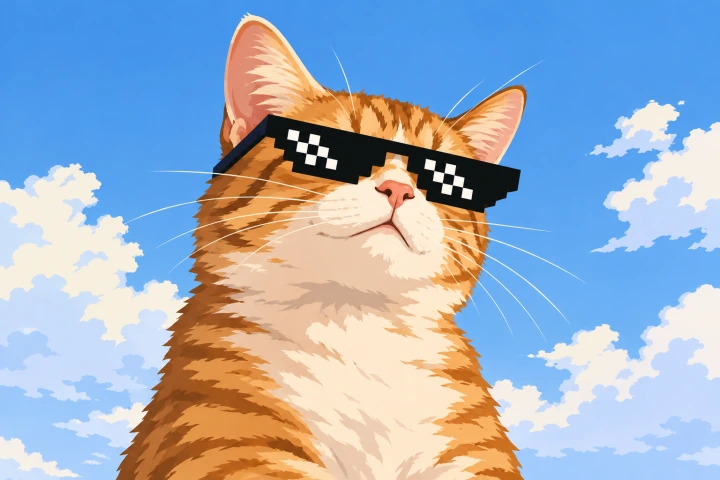
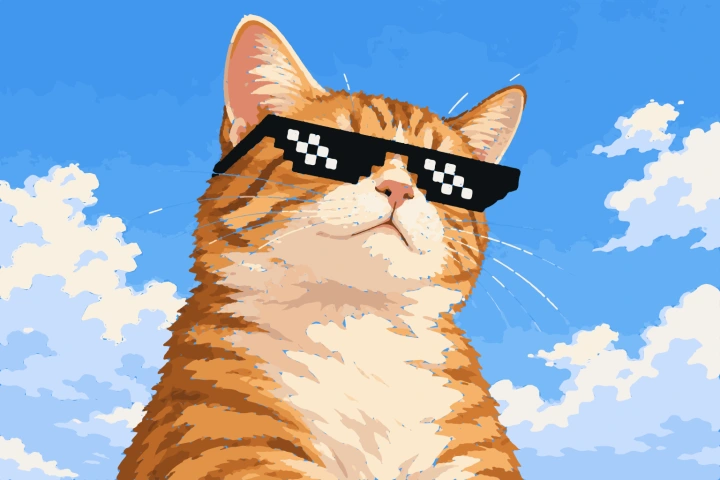
Make Busy the highest-quality preset; use Busy cat output in hero

diff --git a/frontend/index.html b/frontend/index.html
@@ -78,7 +78,7 @@
           <button class="chip" data-sample="parabola_line.png">Curve</button>
         </div>
       </div>
-      <p class="m">Best on dark lines and plain paper. Cat photos are adorable — this one became 743 equations. PNG, JPG or WebP, up to 15 MB.</p>
+      <p class="m">Best on dark lines and plain paper. Cat photos are adorable — this one became 1,672 equations. PNG, JPG or WebP, up to 15 MB.</p>
       <div class="home-links">
         <button class="home-link" id="home-archive" type="button">
           <i class="ri ri-history-line" aria-hidden="true"></i><span>Archive</span>
@@ -208,7 +208,7 @@
           <input type="radio" name="kind" value="sketchy" checked><span><b>Sketchy</b><br><span class="m">The default. Hand-drawn, charmingly wobbly</span></span>
         </label>
         <label class="row card" data-kind="busy">
-          <input type="radio" name="kind" value="busy"><span><b>Busy</b><br><span class="m">Many strokes, ambitious art</span></span>
+          <input type="radio" name="kind" value="busy"><span><b>Busy</b><br><span class="m">Maximum detail · highest settings</span></span>
         </label>
       </fieldset>
 

diff --git a/frontend/app.js b/frontend/app.js
@@ -6,7 +6,7 @@
 const $ = (id) => document.getElementById(id);
 const MAX_BYTES = 15 * 1024 * 1024;
 
-const KIND_PRESET = { clean: "precise", sketchy: "balanced", busy: "complex" };
+const KIND_PRESET = { clean: "precise", sketchy: "balanced", busy: "busy" };
 const KIND_VALUES = {
   clean: { sensitivity: 50, fit: 50 },
   sketchy: { sensitivity: 50, fit: 50 },

diff --git a/chawk/config.py b/chawk/config.py
@@ -272,6 +272,26 @@ PRESETS: dict[str, dict[str, Any]] = {
         "max_segments_per_stroke": 12,
         "min_segment_length": 16.0,
     },
+    "busy": {
+        # Highest-quality mode: maximum working resolution, tight fits,
+        # more segments/strokes and a richer colour palette.
+        "max_dimension": 2400,
+        "min_stroke_length": 6.0,
+        "rmse_tolerance": 1.0,
+        "max_error_tolerance": 3.0,
+        "resample_spacing": 1.2,
+        "rdp_epsilon": 1.5,
+        "max_segments_per_stroke": 64,
+        "max_strokes": 3000,
+        "max_labels": 40,
+        "label_fontsize": 5.5,
+        "overlay_linewidth": 1.2,
+        "color_count": 24,
+        "color_min_area": 24.0,
+        "color_spline_smoothing": 0.2,
+        "fill_min_area": 80.0,
+        "fill_min_radius": 4.0,
+    },
     "complex": {
         # Dense/detailed artwork: keep more strokes, label fewer of them.
         "max_dimension": 1800,
